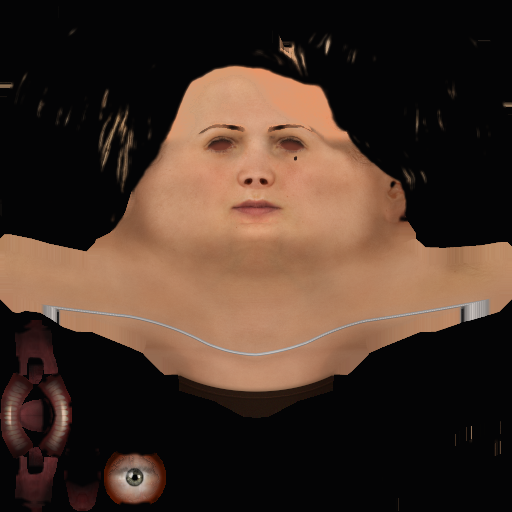
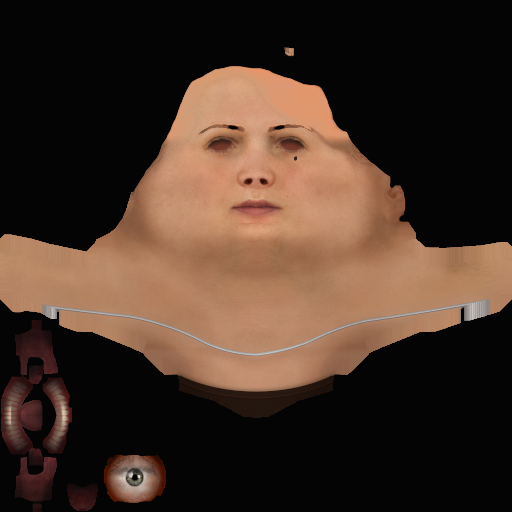
fix: 別の人の髪を載せた顔で、分け目から覗く明るい毛筋を黒く塗る
顔の人の頭のテクスチャの明るい毛筋は暗さで髪と見なされず、髪の人の殻が透ける分け目から明るい茶の筋に見えていた。
一色で塗るときは、髪と見なす所の細い抜け（幅 6 画素まで）を閉じ、半ばの所も塗り切る。
画素の四角の最大・最小を RocketboxPaint.MinMax にまとめる

diff --git a/unity/Assets/Editor/Rocketbox/RocketboxPaint.cs b/unity/Assets/Editor/Rocketbox/RocketboxPaint.cs
@@ -264,6 +264,9 @@ namespace HalfAware.EditorTools.Rocketbox
                 var skinCol = Smooth(0.40f, 0.52f, Vb[i]) * Band(S[i], 0.18f, 0.24f, 0.62f, 0.70f) * HueNear(H[i] * 360f, 20f, 16f, 10f);
                 skin[i] = guarded || InEyeWide(p, a.eyeL) || InEyeWide(p, a.eyeR) ? 0f : (1f - hair[i]) * faceAndNeck * skinCol * (1f - Mathf.Clamp01(bw * 2f));
             }
+            // 別の人の髪を載せるとき（一色で塗るとき）は、髪の中の明るい毛筋（幅 6 画素まで）も髪にする。
+            // 明るい毛筋は暗さで髪と見なされず、別の人の髪の分け目から明るい茶の筋になって覗いた
+            if (k.flatHair) hair = MinMax(MinMax(hair, n, 3, true), n, 3, false);
             hair = Blur(hair, s.On, n, 1);
 
             var b = Mathf.Clamp01(k.beauty);
@@ -298,7 +301,9 @@ namespace HalfAware.EditorTools.Rocketbox
                 if (hair[i] <= 0f) continue;
                 var ink = k.flatHair ? k.hairShadow : HairRamp(V[i], k);
                 ink.a = px[i].a;
-                px[i] = Color.Lerp(px[i], ink, hair[i]);
+                // 一色で塗るときは、髪と見なす度合いが半ばの所（元の明るい毛筋）も塗り切る。
+                // 別の人の髪の殻は分け目で透けて、顔の人の頭皮がそこから覗き、毛筋が明るい茶の筋に見えたため
+                px[i] = Color.Lerp(px[i], ink, k.flatHair ? Smooth(0.15f, 0.45f, hair[i]) : hair[i]);
             }
 
             // 2b. 元の前髪の影で暗い額とこめかみの肌を、額の真ん中の明るさまで上げる（別の人の髪を載せるとき）
@@ -594,6 +599,28 @@ namespace HalfAware.EditorTools.Rocketbox
             if (k.recolourPants) Recolour(px, V, Spread(pants, n), k.pantsShadow, k.pantsShine);
             if (k.recolourShoes) Recolour(px, V, Spread(shoes, n), k.shoeShadow, k.shoeShine);
             if (k.recolourTop) Recolour(px, V, Spread(top, n), k.topShadow, k.topShine);
+        }
+
+        /// <summary>縦横 (2r+1) 画素の四角の中の最大（max）か最小。絵の外は数えない</summary>
+        public static float[] MinMax(float[] a, int n, int r, bool max)
+        {
+            var tmp = new float[a.Length];
+            var o = new float[a.Length];
+            for (var y = 0; y < n; y++)
+                for (var x = 0; x < n; x++)
+                {
+                    var v = a[y * n + x];
+                    for (var k = Mathf.Max(0, x - r); k <= Mathf.Min(n - 1, x + r); k++) v = max ? Mathf.Max(v, a[y * n + k]) : Mathf.Min(v, a[y * n + k]);
+                    tmp[y * n + x] = v;
+                }
+            for (var y = 0; y < n; y++)
+                for (var x = 0; x < n; x++)
+                {
+                    var v = tmp[y * n + x];
+                    for (var k = Mathf.Max(0, y - r); k <= Mathf.Min(n - 1, y + r); k++) v = max ? Mathf.Max(v, tmp[k * n + x]) : Mathf.Min(v, tmp[k * n + x]);
+                    o[y * n + x] = v;
+                }
+            return o;
         }
 
         /// <summary>負の値（島の外）を、となりの値の平均で 4 回まで広げる。届かない所は 0</summary>

diff --git a/unity/Assets/Editor/Rocketbox/BuildRocketboxProtagonist.cs b/unity/Assets/Editor/Rocketbox/BuildRocketboxProtagonist.cs
@@ -330,7 +330,7 @@ namespace HalfAware.EditorTools.Rocketbox
             }
             for (var i = 0; i < alpha.Length; i++) if (alpha[i] < 0f) alpha[i] = 1f;
             // 髪の中の明るい毛筋で透けに開いた小さな穴（幅 4 画素まで）を閉じる（顔の人のこめかみの肌が点になって覗いたため）
-            alpha = MinMax(MinMax(alpha, n, 2, true), n, 2, false);
+            alpha = RocketboxPaint.MinMax(RocketboxPaint.MinMax(alpha, n, 2, true), n, 2, false);
             for (var i = 0; i < r.Px.Length; i++)
             {
                 var c = r.Px[i];
@@ -338,28 +338,6 @@ namespace HalfAware.EditorTools.Rocketbox
                 r.Px[i] = c;
             }
             return r;
-        }
-
-        /// <summary>縦横 (2r+1) 画素の四角の中の最大（max）か最小。絵の外は数えない</summary>
-        static float[] MinMax(float[] a, int n, int r, bool max)
-        {
-            var tmp = new float[a.Length];
-            var o = new float[a.Length];
-            for (var y = 0; y < n; y++)
-                for (var x = 0; x < n; x++)
-                {
-                    var v = a[y * n + x];
-                    for (var k = Mathf.Max(0, x - r); k <= Mathf.Min(n - 1, x + r); k++) v = max ? Mathf.Max(v, a[y * n + k]) : Mathf.Min(v, a[y * n + k]);
-                    tmp[y * n + x] = v;
-                }
-            for (var y = 0; y < n; y++)
-                for (var x = 0; x < n; x++)
-                {
-                    var v = tmp[y * n + x];
-                    for (var k = Mathf.Max(0, y - r); k <= Mathf.Min(n - 1, y + r); k++) v = max ? Mathf.Max(v, tmp[k * n + x]) : Mathf.Min(v, tmp[k * n + x]);
-                    o[y * n + x] = v;
-                }
-            return o;
         }
 
         static Color[] PaintBody(RocketboxPerson who, RocketboxPaint.Look look, Maps maps, RocketboxPaint.HeadResult head, out string skinNote)
